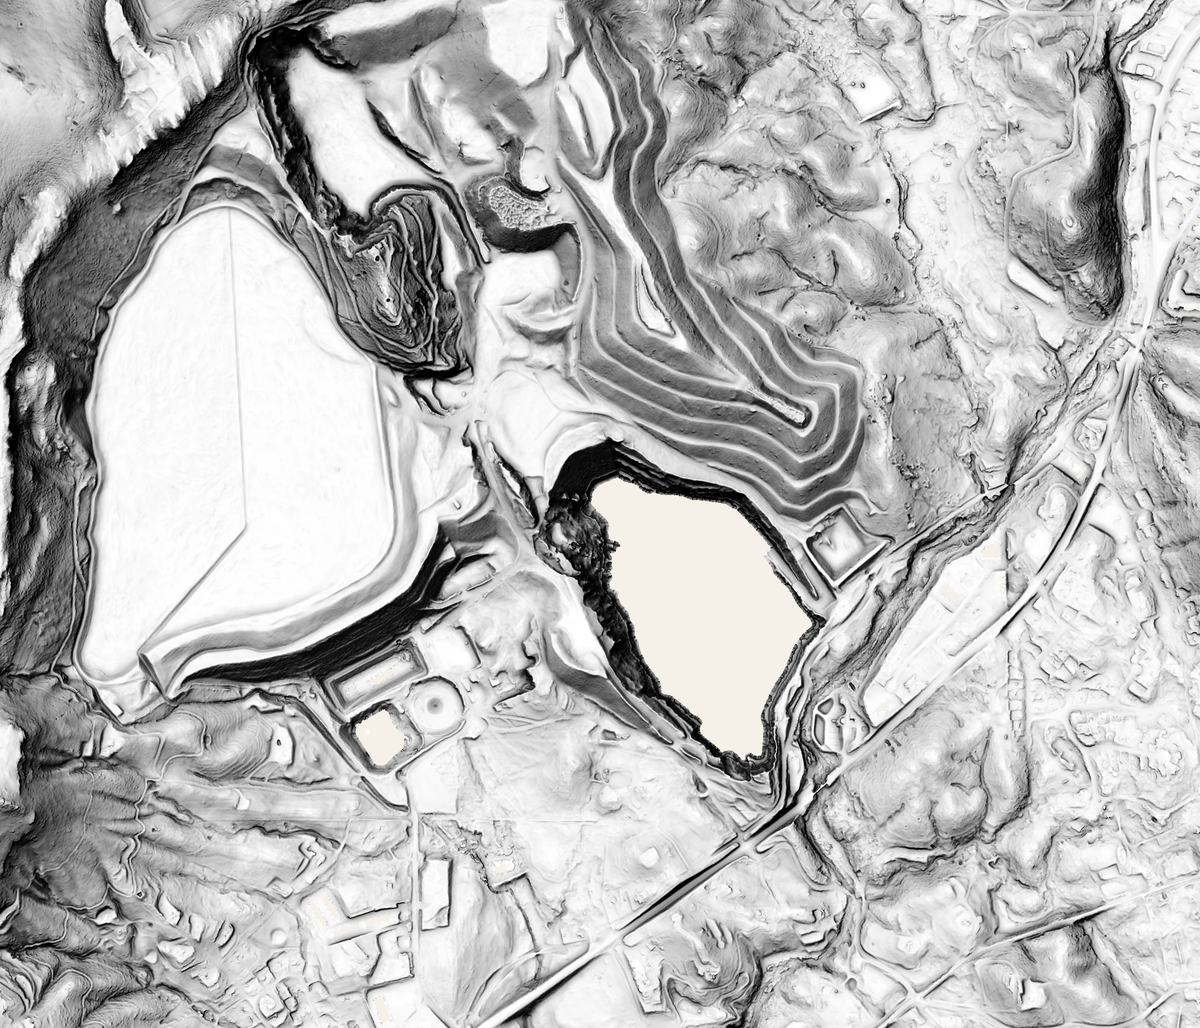
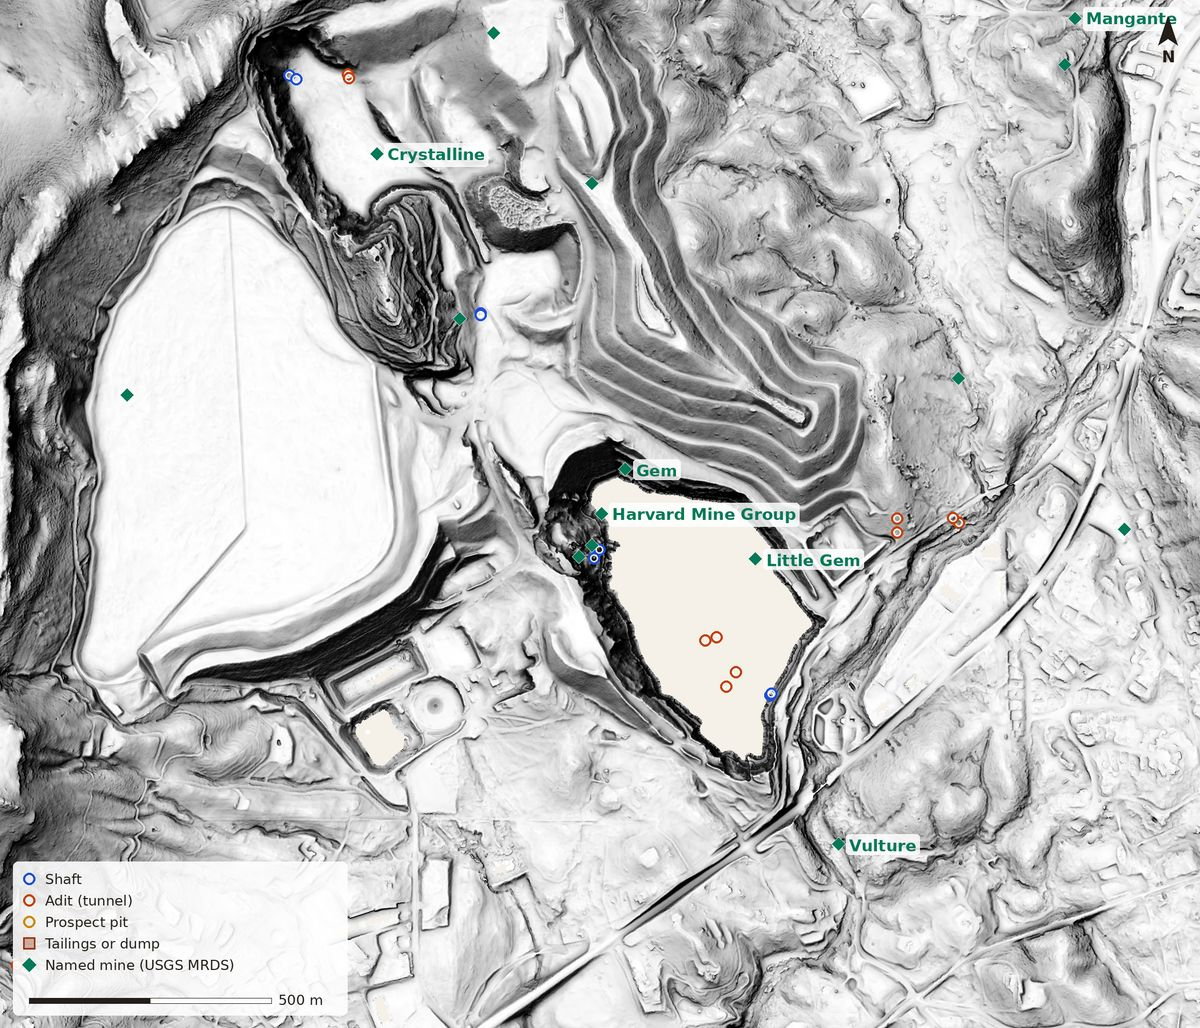
Mother Lode post: Big Oak Flat leads with a labelled map, every image opens full size, Table Mountain, listen/watch/read
Claude-Session: https://claude.ai/code/session_019ZVM4MKp58nXx1yqhoswDG

diff --git a/blog/mother-lode-post.html b/blog/mother-lode-post.html
@@ -135,6 +135,13 @@
     .tablewrap { overflow-x:auto; }
     .photo-block { margin: 2.5rem 0; }
     .photo-block img { width: 100%; height: auto; display: block; border: 1px solid var(--mist); }
+    .photo-block a.zoom { display:block; cursor: zoom-in; }
+    .lightbox { position: fixed; inset: 0; z-index: 1000; background: rgba(20,17,12,.94); overflow: auto; display: none; }
+    .lightbox.open { display: block; }
+    .lightbox img { display: block; margin: 0 auto; max-width: none; width: 2400px; height: auto; cursor: zoom-out; }
+    .lightbox img.fit { width: 100%; max-width: 100vw; cursor: zoom-in; }
+    .lightbox-bar { position: sticky; top: 0; display: flex; justify-content: space-between; gap: 12px; padding: 10px 14px; font-family: 'DM Mono', monospace; font-size: 12px; color: #f5f0e8; background: rgba(20,17,12,.8); }
+    .lightbox-bar button, .lightbox-bar a { font: inherit; color: #f5f0e8; background: none; border: 1px solid #f5f0e8; padding: 4px 10px; cursor: pointer; text-decoration: none; }
     .photo-caption { font-family: 'DM Mono', monospace; font-size: 0.58rem; letter-spacing: 0.08em; color: var(--stone); margin-top: 0.6rem; text-align: center; line-height: 1.6; }
   </style>
   <link rel="stylesheet" href="/css/site-footer.css">
@@ -181,7 +188,7 @@
   <div class="article-meta">
     <span>October 6, 2026</span>
     <span>Brooks Groves</span>
-    <span>6 min read</span>
+    <span>8 min read</span>
   </div>
 
   <div class="article-tags">
@@ -211,11 +218,22 @@
 
     <p>Then the lidar. The USGS has flown these foothills with airborne lasers twice, in 2011 and again in 2021&ndash;22, and the whole archive sits on Amazon&rsquo;s cloud in a form you can read a window at a time. Keep only the laser returns that reached the ground, and the trees and buildings are gone. I stitched the two surveys together where one stops and the other carries on; where they overlap they agree to within a few centimetres.</p>
 
+    <h2>Big Oak Flat: where I start</h2>
+
+    <div class="photo-block">
+      <a class="zoom" href="/blog/img/mother-lode/big-oak-flat-full.jpg"><img src="/blog/img/mother-lode/big-oak-flat.jpg" alt="Bare-earth lidar relief of Big Oak Flat with mine markers: a red star for the Big Oak Flat historical marker in the middle of town, green diamonds labelled with named mines such as Big Oak Flat No. 1, Abbie L., Golden Star, Longfellow, Eureka, Two Brothers, Banner, Red Jacket and Champion, and many small red, blue and gold rings for tunnels, shafts and prospect pits in the hills around town; an arrow at the upper right points toward Groveland, two miles away" loading="lazy"></a>
+      <p class="photo-caption">Big Oak Flat in bare-earth lidar, with every mine on the old maps. Click for the full-size map.</p>
+    </div>
+
+    <p>Big Oak Flat, just down the road from where I grew up, was first called Savage Diggins after James Savage found gold there in 1848. It was renamed for a giant oak, about 13 feet across, that stood in the middle of town; the tree was undermined in 1869 and burned in 1890, and the historical marker (the red star) stands near the spot. The gravels at Big Oak Flat and Deer Flat are credited with about $25 million in placer gold, and lode mining carried on until World War I.</p>
+
+    <p>Here&rsquo;s how to read the map. Red rings are adits, the tunnels driven into hillsides; blue rings are shafts; gold rings are prospect pits, the holes someone dug and gave up on. Brown outlines are tailings and dumps, and green diamonds are the named mines in the USGS database. Big Oak Flat is ringed with them: the Golden Star, the Abbie L. and Big Oak Flat No. 1 to the north and northwest, the Longfellow and the Eureka right by town, and the Banner and the Red Jacket off to the east-southeast. Groveland, where I grew up, is two miles up the road past the arrow.</p>
+
     <h2>Columbia: the rock gardens</h2>
 
     <div class="photo-block">
-      <img src="/blog/img/mother-lode/columbia.jpg" alt="Bare-earth lidar relief of Columbia: a pale grid of old town streets in the middle, a long flat airport runway on the left, and a band of rough, dark, pitted ground running south and east of town where limestone pinnacles were left by mining" loading="lazy">
-      <p class="photo-caption">Columbia in bare-earth lidar. The rough, dark ground south and east of the old town is the limestone the miners washed bare.</p>
+      <a class="zoom" href="/blog/img/mother-lode/columbia-full.jpg"><img src="/blog/img/mother-lode/columbia.jpg" alt="Bare-earth lidar relief of Columbia with mine markers: a pale grid of old town streets in the middle, a long flat airport runway on the left, and a band of rough, dark, pitted ground running south and east of town where limestone pinnacles were left by mining; green diamonds mark named mines" loading="lazy"></a>
+      <p class="photo-caption">Columbia. The rough, dark ground south and east of the old town is the limestone the miners washed bare. Click for full size.</p>
     </div>
 
     <p>Gold was found at Columbia on March 27, 1850, and at least $87 million in gold came out of the surrounding hills by the early 1900s. The bedrock here is limestone, which dissolves into knobs, pinnacles and deep potholes, and the potholes were full of rich gravel. Miners dug it out of the crevices and washed the rest away with water, and the pinnacles were left standing. In the lidar it&rsquo;s that rough, dark band running out of town, and you can walk among the rocks today at Columbia State Historic Park.</p>
@@ -223,8 +241,8 @@
     <h2>The Harvard pit: the modern version</h2>
 
     <div class="photo-block">
-      <img src="/blog/img/mother-lode/harvard-pit.jpg" alt="Bare-earth lidar relief of the Jamestown Mine: a blank lake-shaped hole where the open pit has filled with water, stepped waste-rock dumps with switchback haul roads to the north, and a large smooth flat oval to the west where the capped tailings facility is" loading="lazy">
-      <p class="photo-caption">The Harvard pit at Jamestown. The blank shape is the pit lake (lidar doesn&rsquo;t come back from water); the stepped dumps sit north of it and the capped tailings facility is the flat oval on the left.</p>
+      <a class="zoom" href="/blog/img/mother-lode/harvard-pit-full.jpg"><img src="/blog/img/mother-lode/harvard-pit.jpg" alt="Bare-earth lidar relief of the Jamestown Mine with mine markers: a blank lake-shaped hole where the open pit has filled with water, stepped waste-rock dumps with switchback haul roads to the north, and a large smooth flat oval to the west where the capped tailings facility is" loading="lazy"></a>
+      <p class="photo-caption">The Harvard pit at Jamestown. The blank shape is the pit lake (lidar doesn&rsquo;t come back from water); the stepped dumps sit north of it and the capped tailings facility is the flat oval on the left. Click for full size.</p>
     </div>
 
     <p>Not all the mining is old. From 1986 to 1994, Sonora Mining Corporation dug an open pit at Jamestown about 830 m long, 460 m wide and 185 m deep, taking out the gold-bearing rock along the Melones fault from the top. When mining ended the pit began to fill, and by November 2000 the lake was about 90 m deep. The USGS measured 720 to 1,100 parts per billion of arsenic in its water in 1998 and 1999, and today eleven evaporators sit in the pit to keep the level down. The tailings pond leaked, so it was drained, graded, capped with clay and seeded.</p>
@@ -234,17 +252,22 @@
     <h2>Eagle-Shawmut: tailings under the lake</h2>
 
     <div class="photo-block">
-      <img src="/blog/img/mother-lode/eagle-shawmut.jpg" alt="Bare-earth lidar relief of hills east of Chinese Camp, cut by a blank channel where Don Pedro Reservoir fills the canyon; orange outlines of tailings drawn on 1947 and 1948 USGS topo maps sit out on the blank water" loading="lazy">
-      <p class="photo-caption">Eagle-Shawmut, east of Chinese Camp. The orange outlines are tailings drawn on the 1947 and 1948 USGS topo maps. Today they sit out on Don Pedro Reservoir.</p>
+      <a class="zoom" href="/blog/img/mother-lode/eagle-shawmut-full.jpg"><img src="/blog/img/mother-lode/eagle-shawmut.jpg" alt="Bare-earth lidar relief of hills east of Chinese Camp, cut by a blank channel where Don Pedro Reservoir fills the canyon; brown outlines of tailings drawn on USGS topo maps from 1947 to 1973 sit out on the blank water, and a green diamond marks the Eagle-Shawmut Mine on the hill above" loading="lazy"></a>
+      <p class="photo-caption">Eagle-Shawmut, east of Chinese Camp. The brown outlines are tailings drawn on USGS topo maps from 1947 to 1973. Today they sit out on Don Pedro Reservoir. Click for full size.</p>
     </div>
 
     <p>This was the one that surprised me. The Eagle-Shawmut produced about $7.4 million in gold from large bodies of low-grade rock streaked green with mariposite, and by 1940 its workings ran about 2,400 feet down. Its mill stood almost at the level of Woods Creek. Then Don Pedro Reservoir filled the canyon. When I laid the old topo-map outlines over the lidar, the tailings the surveyors drew in 1947 and 1948 landed out on the water. The lake has most likely swallowed them.</p>
 
-    <h2>Big Oak Flat and the Rawhide</h2>
+    <h2>The Rawhide</h2>
 
-    <p>Big Oak Flat, just down the road from where I grew up, was first called Savage Diggins after James Savage found gold there in 1848. It was renamed for a giant oak, about 13 feet across, that stood in the middle of town; the tree was undermined in 1869 and burned in 1890. The gravels at Big Oak Flat and Deer Flat are credited with about $25 million in placer gold. In the lidar the town is ringed with tunnels, shafts and prospect pits.</p>
+    <div class="photo-block">
+      <a class="zoom" href="/blog/img/mother-lode/rawhide-full.jpg"><img src="/blog/img/mother-lode/rawhide.jpg" alt="Bare-earth lidar relief northwest of Jamestown with mine markers: rolling ground with roads, the long, smooth, curving top of Table Mountain on the east side, a brown dump outline and blue shaft rings west of the Rawhide label, and green diamonds for named mines" loading="lazy"></a>
+      <p class="photo-caption">The Rawhide, northwest of Jamestown. The long, smooth ridge curving across the right side is Table Mountain. Click for full size.</p>
+    </div>
 
-    <p>The Rawhide, just northwest of Jamestown, is the classic underground Mother Lode mine: about $6 million in gold, a vein up to 70 feet thick, and a main shaft that followed it 2,000 feet down the incline. Underground mines leave less on the surface, so look for the dumps around the shafts.</p>
+    <p>The Rawhide is the classic underground Mother Lode mine: about $6 million in gold, a vein up to 70 feet thick, and a main shaft that followed it 2,000 feet down the incline. Underground mines leave less on the surface, so look for the dumps around the shafts.</p>
+
+    <p>The long, smooth ridge curving across the right side of this map is the best geology on the whole page: Table Mountain. About 10 million years ago a lava flow ran down an ancient channel of the Stanislaus River and filled it. The softer ground around it has worn away since, so the old riverbed now stands up as a flat-topped ridge 18 miles long. Underneath the lava are the river&rsquo;s gold-bearing gravels, and miners went after those too, washing them out at the edges and tunnelling in under the ridge.</p>
 
     <div class="caveat">
       <p class="caveat-label">Please look from the road</p>
@@ -273,7 +296,17 @@
       <div class="sources-head">&#128202; Data</div>
       <p><a href="https://www.usgs.gov/3d-elevation-program" target="_blank" rel="noopener">USGS 3D Elevation Program</a> lidar, read from the <a href="https://registry.opendata.aws/usgs-lidar/" target="_blank" rel="noopener">USGS 3DEP archive on AWS</a>. Mine features from <a href="https://mrdata.usgs.gov/usmin/" target="_blank" rel="noopener">USGS USMIN</a> and the <a href="https://mrdata.usgs.gov/mrds/" target="_blank" rel="noopener">Mineral Resources Data System</a>.</p>
       <div class="sources-head">&#128214; Read</div>
-      <p><a href="https://en.wikipedia.org/wiki/Mother_Lode" target="_blank" rel="noopener">Mother Lode</a> (Wikipedia) &middot; <a href="https://www.parks.ca.gov/pages/552/files/ColumbiaSHPFinalWeb2015.pdf" target="_blank" rel="noopener">Columbia State Historic Park</a> (California State Parks) &middot; <a href="https://explore.museumca.org/goldrush/dist-columbia.html" target="_blank" rel="noopener">Columbia</a>, <a href="https://explore.museumca.org/goldrush/dist-jamestown.html" target="_blank" rel="noopener">Jamestown</a> and <a href="https://explore.museumca.org/goldrush/dist-bigoak.html" target="_blank" rel="noopener">Big Oak Flat</a> districts (Oakland Museum of California) &middot; <a href="https://pubs.usgs.gov/of/2001/0074/pdf/of01-074.pdf" target="_blank" rel="noopener">The Harvard pit lake</a> (USGS Open-File Report 01-074) &middot; <a href="https://www.waterboards.ca.gov/rwqcb5/water_issues/mining/region5_success_stories/jamestown_mine/" target="_blank" rel="noopener">Jamestown Mine closure</a> (Central Valley Water Board) &middot; <a href="https://www.hmdb.org/m.asp?m=194153" target="_blank" rel="noopener">Big Oak Flat marker</a> (HMdb) &middot; <a href="https://westernmininghistory.com/mine-detail/10310611/" target="_blank" rel="noopener">Eagle-Shawmut Mine</a> (Western Mining History)</p>
+      <p><a href="https://en.wikipedia.org/wiki/Mother_Lode" target="_blank" rel="noopener">Mother Lode</a> and <a href="https://en.wikipedia.org/wiki/Table_Mountain_(Tuolumne_County,_California)" target="_blank" rel="noopener">Table Mountain</a> (Wikipedia) &middot; <a href="https://www.parks.ca.gov/pages/552/files/ColumbiaSHPFinalWeb2015.pdf" target="_blank" rel="noopener">Columbia State Historic Park</a> (California State Parks) &middot; <a href="https://explore.museumca.org/goldrush/dist-columbia.html" target="_blank" rel="noopener">Columbia</a>, <a href="https://explore.museumca.org/goldrush/dist-jamestown.html" target="_blank" rel="noopener">Jamestown</a> and <a href="https://explore.museumca.org/goldrush/dist-bigoak.html" target="_blank" rel="noopener">Big Oak Flat</a> districts (Oakland Museum of California) &middot; <a href="https://pubs.usgs.gov/of/2001/0074/pdf/of01-074.pdf" target="_blank" rel="noopener">The Harvard pit lake</a> (USGS Open-File Report 01-074) &middot; <a href="https://www.waterboards.ca.gov/rwqcb5/water_issues/mining/region5_success_stories/jamestown_mine/" target="_blank" rel="noopener">Jamestown Mine closure</a> (Central Valley Water Board) &middot; <a href="https://www.hmdb.org/m.asp?m=194153" target="_blank" rel="noopener">Big Oak Flat marker</a> (HMdb) &middot; <a href="https://westernmininghistory.com/mine-detail/10310611/" target="_blank" rel="noopener">Eagle-Shawmut Mine</a> (Western Mining History)</p>
+      <div class="sources-head">&#127911; Listen &amp; watch</div>
+      <p><a href="https://backstoryradio.org/shows/gold-rush/" target="_blank" rel="noopener">&ldquo;All That Glitters?&rdquo;</a> (BackStory) &mdash; what happened in California after the gold was found, and what it left behind.</p>
+      <p><a href="https://shows.acast.com/dansnowshistoryhit/episodes/california-gold-rush" target="_blank" rel="noopener">&ldquo;California Gold Rush&rdquo;</a> (Dan Snow&rsquo;s History Hit) &mdash; the big-picture story in one episode.</p>
+      <p><a href="https://www.kvpr.org/podcast/central-valley-roots/2025-08-04/south-of-the-mother-lode-gold-rush-towns-in-central-california" target="_blank" rel="noopener">&ldquo;South of the Mother Lode&rdquo;</a> (KVPR, Central Valley Roots) &mdash; the gold camps south of here, from Mariposa County down to the Kern River.</p>
+      <p><a href="https://archive.org/details/CSPAN3_20200602_000100_Lectures_in_History_Environmental_Impact_of_California_Gold_Rush" target="_blank" rel="noopener">Environmental Impact of the California Gold Rush</a> (C-SPAN Lectures in History, on the Internet Archive) &mdash; a full college lecture on the environmental cost of the Gold Rush, hydraulic mining above all.</p>
+      <p><a href="https://www.pbssocal.org/shows/earth-focus/mercury-in-our-waters-the-10-000-year-legacy-of-californias-gold-rush" target="_blank" rel="noopener">&ldquo;Mercury in Our Waters&rdquo;</a> (PBS SoCal, Earth Focus) &mdash; the mercury the gold miners used is still working its way through California&rsquo;s rivers.</p>
+      <div class="sources-head">&#127757; Go see it</div>
+      <p><a href="https://grovelandmuseum.org/" target="_blank" rel="noopener">Groveland Yosemite Gateway Museum</a> &middot; <a href="https://www.parks.ca.gov/?page_id=552" target="_blank" rel="noopener">Columbia State Historic Park</a> &middot; <a href="https://tchistory.org/groveland-south-of-the-river/" target="_blank" rel="noopener">Groveland: South of the River</a> (Tuolumne County Historical Society)</p>
+      <div class="sources-head">&#128218; More to read</div>
+      <p><a href="https://geotripper.blogspot.com/2023/09/a-short-mining-history-and-geology-of.html" target="_blank" rel="noopener">A Short Mining History and Geology of the California Gold Rush</a> (Garry Hayes, Geotripper) &mdash; a Modesto Junior College geology instructor on how the gold got there and how it came out. &middot; <a href="https://www.arcadiapublishing.com/products/groveland-and-big-oak-flat-9781467105286" target="_blank" rel="noopener"><em>Groveland and Big Oak Flat</em></a> (Images of America, Southern Tuolumne County Historical Society) &middot; <a href="https://digitalarchives.csustan.edu/repositories/2/resources/12" target="_blank" rel="noopener"><em>Chispa</em></a>, the Tuolumne County Historical Society&rsquo;s quarterly (CSU Stanislaus archives)</p>
       <p>Related: <a href="/blog/project-kiva-post.html">Project Kiva</a>, the same lidar trick pointed at archaeology, and <a href="https://brooksgroves.com/aftershock" target="_blank">AFTERSHOCK</a>, the earthquakes along the faults.</p>
     </div>
 
@@ -388,6 +421,29 @@
     try { localStorage.setItem('bg_theme', dark ? 'light' : 'dark'); } catch(e) {}
     sync();
   });
+})();
+</script>
+<div class="lightbox" id="lightbox" role="dialog" aria-modal="true" aria-label="Full-size map">
+  <div class="lightbox-bar"><span>Click the map to switch between fit and full size</span><span><a id="lb-open" href="#" target="_blank" rel="noopener">Open image</a> <button id="lb-close" type="button">Close &times;</button></span></div>
+  <img id="lb-img" alt="">
+</div>
+<script>
+(function () {
+  var lb = document.getElementById('lightbox'), img = document.getElementById('lb-img');
+  function close() { lb.classList.remove('open'); img.removeAttribute('src'); document.body.style.overflow = ''; }
+  document.querySelectorAll('.photo-block a.zoom').forEach(function (a) {
+    a.addEventListener('click', function (e) {
+      e.preventDefault();
+      img.src = a.getAttribute('href'); img.alt = (a.querySelector('img') || {}).alt || '';
+      img.className = 'fit';
+      document.getElementById('lb-open').href = a.getAttribute('href');
+      lb.classList.add('open'); lb.scrollTop = 0; document.body.style.overflow = 'hidden';
+    });
+  });
+  img.addEventListener('click', function () { img.classList.toggle('fit'); });
+  document.getElementById('lb-close').addEventListener('click', close);
+  lb.addEventListener('click', function (e) { if (e.target === lb) close(); });
+  document.addEventListener('keydown', function (e) { if (e.key === 'Escape' && lb.classList.contains('open')) close(); });
 })();
 </script>
 </body>

diff --git a/blog/index.html b/blog/index.html
@@ -260,7 +260,7 @@
     <article class="post-item">
       <div class="post-meta-col">
         <div class="post-date">Oct 6, 2026</div>
-        <div class="post-read">6 min read</div>
+        <div class="post-read">8 min read</div>
       </div>
       <div>
         <div class="post-tags">
